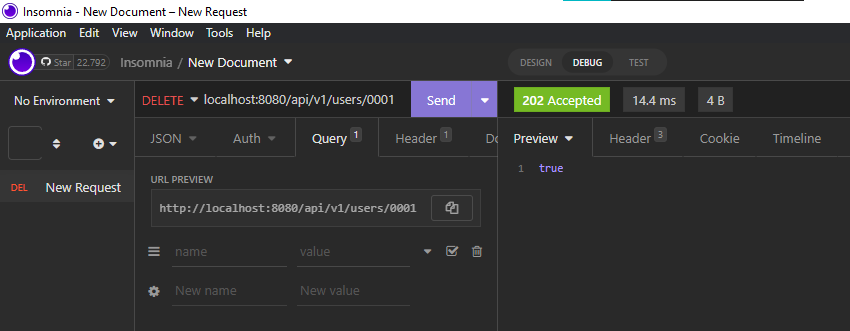
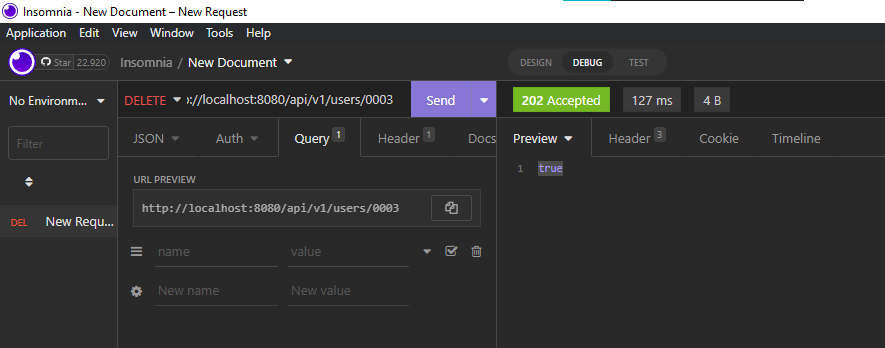
README: Images and readme

diff --git a/README.md b/README.md
@@ -15,9 +15,14 @@ This project is the continuation of the project
 
 [ Users-Microservice-RESTFUL-API ](https://github.com/ZulyVargas/Users-Microservice-RESTFUL-API.git) 
 
+
+and is developed following the steps of the following repository
+
+[ spring-boot-data-mongodb ](https://github.com/CAPJackie/spring-boot-data-mongodb) 
+
 #### Project structure
 
-
+![estructure](img/estructure.png)
 
 ### Prerequisites
 
@@ -40,16 +45,72 @@ Run in Users-Microservice-RESTFUL-API-MongoDB:
     gradle build
     gradlew bootRun
 ```
+If you have problems, run the application from your editor of choice, suggest: **IntelliJ**.
+
+It is necessary to add the environment variable that allows the connection to the database in the cluster of the mongodb account.. 
+
+![VE1](/img/environmentVariable-1.png)
+![VE2](/img/environmentVariable-2.png) 
 
 ***Example***
 
+![run](img/run.png)
 
 
 ## Running the tests
 
 Each API endpoint was tested with the INSOMNIA tool.
 
+1. (GET) /api/v1/users/ getAll(): 
 
+Initially there are two users registered in mongodb so they should be returned. 
+
+
+![initialUsers](/img/initialMDB.png)
+
+![getAll](img/getAll.png)
+
+2. (POST) /api/v1/users/ create():
+
+![create](img/create.png)
+
+3. (GET) /api/v1/users/{id} findById():
+
+![findById](img/getById.png)
+
+4. (PUT) /api/v1/users/{id} update():
+
+![update](img/getById.png)
+
+5. (GET) /api/v1/users getAll() again with more users:
+
+![getAll](img/getTwo.png)
+
+6. (DELETE) /api/v1/users/{id}:
+
+![delete](img/delete.png)
+
+After:
+
+![afterDelete](img/getAfterDelete.png)
+
+*Challenge Yourself: Implement complex queries using the Spring Data Query Methods Part*
+
+1. Name or Last name Like:
+
+![query1](/img/queryLike.png)
+
+Users with a first name or surname containing "Number" are obtained.
+
+2. Users creared after a given date:
+
+![query2](/img/queryCreateAtAfter.png)
+
+users created after August 24.
+
+![query2.2](/img/queryCreateAtAfter2.png)
+
+users created after September 2nd.
 
 ## Built With
 
